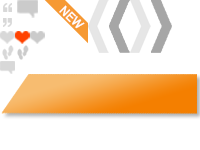
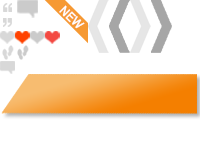
클릭한 하트 붉게 변경

Changed region(s): [[0.21, 0.1867, 0.3, 0.2933]]

diff --git a/jtown/src/main/webapp/resources/js/jtown.js b/jtown/src/main/webapp/resources/js/jtown.js
@@ -235,6 +235,16 @@ jtown.home.clickLove = function(spn){
 	$.postJSON(url, json, function(count){
 		if(!nullValueCheck(count.message)){
 			alert(count.message);
+		}else{
+			var crudType = count.crudType;
+			
+			if(crudType == 'insert'){
+				$('#love-image-'+spn).addClass('jt-home-shop-love-click');
+				$('#love-'+spn).addClass('jt-home-shop-love-text-click');
+			}else if(crudType == 'delete'){
+				$('#love-image-'+spn).removeClass('jt-home-shop-love-click');
+				$('#love-'+spn).removeClass('jt-home-shop-love-text-click');
+			}
 		}
 	});
 };
@@ -255,6 +265,9 @@ jtown.home.html = function(data){
 			var imageSrc = contextPath + 'resources/uploadImage/'+ ( (mainImage == null )? '8.jpg' : mainImage );
 			imageHtml+='<img alt="" src="'+imageSrc+'" title="'+htmlChars(seller.name)+'"/>	';
 		}
+		
+		var loveClick = !nullValueCheck(seller.customerPn) ? 'jt-home-shop-love-click' : '';
+		var loveTextClick =  !nullValueCheck(seller.customerPn) ? 'jt-home-shop-love-text-click' : '';
 		
 		html+='	<div class="jt-home-shop" id="jt-home-shop-'+spn+'">';
 		html+='		<header>';
@@ -280,7 +293,7 @@ jtown.home.html = function(data){
 		html+='				<span class="jt-home-shop-comment">COMMENT</span>&nbsp;<span id="comment-'+spn+'">'+ ( nullValueCheck(seller.commentCount) ? 0 : seller.commentCount )+ '</span>';
 		html+='			</li>';
 		html+='			<li>';
-		html+='				<a href="#none" onclick="jtown.home.clickLove(\''+spn+'\');" class="jt-home-shop-love">♥</a>&nbsp;<span id="love-'+spn+'">'+ ( nullValueCheck(seller.loveCount) ? 0 : seller.loveCount) + '</span>';
+		html+='				<a href="#none" onclick="jtown.home.clickLove(\''+spn+'\');"id="love-image-'+spn+'" class="jt-home-shop-love '+loveClick+'">♥</a>&nbsp;<span id="love-'+spn+'" class="'+loveTextClick+'">'+ ( nullValueCheck(seller.loveCount) ? 0 : seller.loveCount) + '</span>';
 		html+='				<span id="new-'+spn+'">';
 		html+='					'+ ( ( seller.bannerDate != null && Number(seller.bannerDate) < 8 ) ? 'new' : '' ) ;
 		html+='				</span>';

diff --git a/jtown/src/main/webapp/resources/css/home.css b/jtown/src/main/webapp/resources/css/home.css
@@ -38,6 +38,9 @@ word-wrap: break-word; /* Internet Explorer 5.5+ */}
 .jt-home-shop-view{ float: left; margin-left: 45px; width: 15px; height: 15px; background: url("../images/jt-home-icon.png") 0 -45px no-repeat; text-indent: -99999px;}
 .jt-home-shop-love{ float: left; margin-left: 15px; width: 15px; height: 15px; background: url("../images/jt-home-icon.png") 0 -30px no-repeat; text-indent: -99999px; }
 .jt-home-shop-comment{ float: left; margin-left: 34px; width: 15px; height: 15px; background: url("../images/jt-home-icon.png") 0 -60px no-repeat; text-indent: -99999px;}
+
+.jt-home-shop-love-click{background: url("../images/jt-home-icon.png") -45px -30px no-repeat;}
+.jt-home-shop-love-text-click{color: #f34942 !important;}
 /**
 *
 *	@author Francis

diff --git a/jtown/src/main/java/com/bg/jtown/controller/HomeController.java b/jtown/src/main/java/com/bg/jtown/controller/HomeController.java
@@ -62,6 +62,15 @@ public class HomeController {
 		session.setAttribute("randomPage", randomPage);
 		logger.debug("RandomPage Controller" + randomPage.get(0));
 
+		try {
+			JtownUser user = (JtownUser) SecurityContextHolder.getContext()
+					.getAuthentication().getPrincipal();
+			logger.debug(user.toString());
+			homeFilter.setCustomerPn(user.getPn());
+		} catch (ClassCastException e) {
+			logger.debug("로그인하지않은 사용자");
+		}
+
 		homeFilter.setPage(randomPage.get(0));
 		Map<String, Object> one = homeService.selectHome(homeFilter);
 		mav.addObject("one", one);
@@ -91,6 +100,14 @@ public class HomeController {
 		session.setAttribute("randomPage", randomPage);
 		logger.debug("RandomPage Controller" + randomPage.get(0));
 
+		try {
+			JtownUser user = (JtownUser) SecurityContextHolder.getContext()
+					.getAuthentication().getPrincipal();
+			logger.debug(user.toString());
+			homeFilter.setCustomerPn(user.getPn());
+		} catch (ClassCastException e) {
+			logger.debug("로그인하지않은 사용자");
+		}
 		homeFilter.setPage(randomPage.get(0));
 		Map<String, Object> one = homeService.selectHome(homeFilter);
 		mav.addObject("one", one);
@@ -314,7 +331,15 @@ public class HomeController {
 		HttpSession session = request.getSession();
 		List<Integer> randomPage = (List<Integer>) session
 				.getAttribute("randomPage");
-
+		try {
+			JtownUser user = (JtownUser) SecurityContextHolder.getContext()
+					.getAuthentication().getPrincipal();
+			logger.debug(user.toString());
+			homeFilter.setCustomerPn(user.getPn());
+		} catch (ClassCastException e) {
+			logger.debug("로그인하지않은 사용자");
+		}
+		
 		Integer page = homeFilter.getCurrentPage();
 		if (randomPage.size() > page - 1) {
 			homeFilter.setPage(randomPage.get(page - 1));

diff --git a/jtown/src/main/java/com/bg/jtown/security/JtownUser.java b/jtown/src/main/java/com/bg/jtown/security/JtownUser.java
@@ -99,6 +99,7 @@ public class JtownUser implements JtownDetails, CredentialsContainer {
 	private List<String> images;
 	private Integer contractCount;
 	private String contractEndDate;
+	private Integer customerPn;
 
 	private String interestCategory;
 	private String interestSectionList;
@@ -508,6 +509,14 @@ public class JtownUser implements JtownDetails, CredentialsContainer {
 		return DateUtil.getYear();
 	}
 
+	public Integer getCustomerPn() {
+		return customerPn;
+	}
+
+	public void setCustomerPn(Integer customerPn) {
+		this.customerPn = customerPn;
+	}
+
 	@Override
 	public String toString() {
 		StringBuilder sb = new StringBuilder();
@@ -546,7 +555,8 @@ public class JtownUser implements JtownDetails, CredentialsContainer {
 		sb.append("ContractCount :").append(this.contractCount).append("; ");
 		sb.append("ContractEndDate :").append(this.contractEndDate)
 				.append("; ");
-		
+		sb.append("CustomerPn : ").append(this.customerPn).append(";");
+
 		if (!authorities.isEmpty()) {
 			sb.append("Granted Authorities: ");
 

diff --git a/jtown/src/main/java/com/bg/jtown/business/Count.java b/jtown/src/main/java/com/bg/jtown/business/Count.java
@@ -12,6 +12,12 @@ public class Count {
 	private Integer count;
 
 	/**
+	 * 입력 삭제 타입
+	 * 
+	 */
+	private String crudType;
+
+	/**
 	 * 고객 고유번호
 	 */
 	private Integer customerPn;
@@ -55,6 +61,10 @@ public class Count {
 		return count;
 	}
 
+	public String getCrudType() {
+		return crudType;
+	}
+
 	public Integer getCustomerPn() {
 		return customerPn;
 	}
@@ -77,6 +87,10 @@ public class Count {
 
 	public void setCount(Integer count) {
 		this.count = count;
+	}
+
+	public void setCrudType(String crudType) {
+		this.crudType = crudType;
 	}
 
 	public void setCustomerPn(Integer customerPn) {
@@ -103,7 +117,8 @@ public class Count {
 	public String toString() {
 		return "Count [count=" + count + ", customerPn=" + customerPn
 				+ ", inputDate=" + inputDate + ", message=" + message
-				+ ", sellerPn=" + sellerPn + ", redisType=" + redisType + "]";
+				+ ", redisType=" + redisType + ", sellerPn=" + sellerPn
+				+ ", crudType=" + crudType + "]";
 	}
 
 }

diff --git a/jtown/src/main/java/com/bg/jtown/business/search/HomeFilter.java b/jtown/src/main/java/com/bg/jtown/business/search/HomeFilter.java
@@ -21,6 +21,11 @@ public class HomeFilter extends AbstractListFilter {
 	private Integer currentPage;
 
 	/**
+	 * 고객 고유번호
+	 */
+	private Integer customerPn;
+
+	/**
 	 * 관심사 고유번호
 	 */
 	private Integer sectionPn;
@@ -44,6 +49,10 @@ public class HomeFilter extends AbstractListFilter {
 		return currentPage;
 	}
 
+	public Integer getCustomerPn() {
+		return customerPn;
+	}
+
 	public Integer getSectionPn() {
 		return sectionPn;
 	}
@@ -54,6 +63,10 @@ public class HomeFilter extends AbstractListFilter {
 
 	public void setCurrentPage(Integer currentPage) {
 		this.currentPage = currentPage;
+	}
+
+	public void setCustomerPn(Integer customerPn) {
+		this.customerPn = customerPn;
 	}
 
 	public void setSectionPn(Integer sectionPn) {

diff --git a/jtown/src/main/java/com/bg/jtown/business/HomeServiceImpl.java b/jtown/src/main/java/com/bg/jtown/business/HomeServiceImpl.java
@@ -204,8 +204,10 @@ public class HomeServiceImpl extends SqlSessionDaoSupport implements
 	public void insertLoveCount(Count count) {
 		Integer loveCount = selectLoveCount(count);
 		if (loveCount == 0) {
+			count.setCrudType("insert");
 			getSqlSession().insert("homeMapper.insertLoveCount", count);
 		} else {
+			count.setCrudType("delete");
 			getSqlSession().delete("homeMapper.deleteLoveCount", count);
 		}
 		count.setCount(sellerService.selectLoveCount(count.getSellerPn()));
